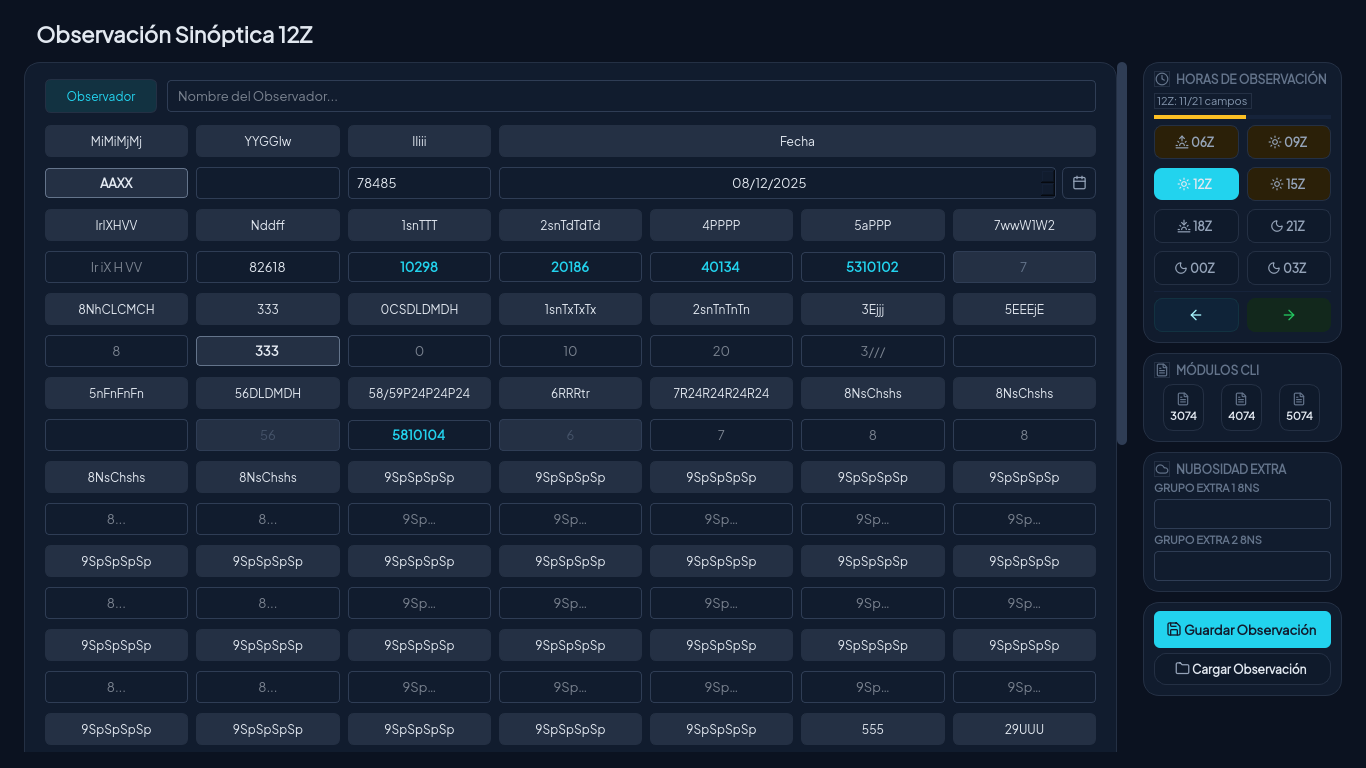
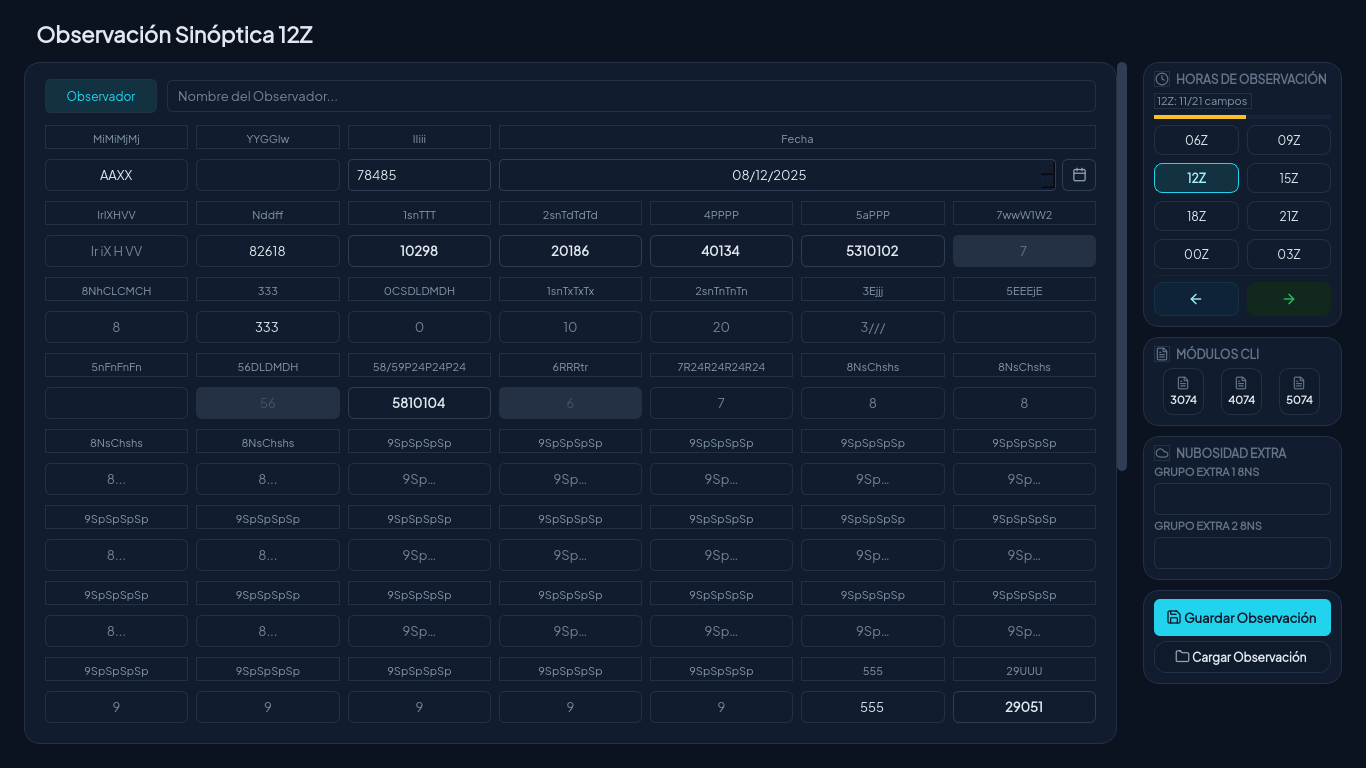
feat(synoptic): la grilla se ve como el mockup (forma, no sólo color)
El dueño revisó las imágenes y tenía razón: las nueve fases cambiaron el color
pero no la forma. En F4 interpreté «deja todo el Grid como está» como «no toques
el marcado de las celdas» y conservé las etiquetas de grupo como barras
rellenas, cuando el mockup las muestra como texto. Arreglado:

- **Etiquetas de grupo**: de barra rellena a texto gris (`$suave_alt`, 11 px).
  Eran 14 bandas oscuras; el orden de filas, grupos y tramos no se tocó.
- **Celdas constantes** (AAXX, 333, 555): de relleno gris con borde tenue a
  campo blanco con borde, como en el mockup.
- **Campos**: borde `$borde`, radio 6 y padding del mockup.
- **Campos de cálculo (RO)**: dejan el acento en negrita y van en tinta.
- **Botones de hora**: de chip con icono sol/luna y tinte por hora a tarjeta
  blanca; el activo con fondo `$acento_suave`, borde `$acento` y texto
  `$acento_texto`, igual al mockup. Los iconos salieron.

Verificado en captura clara y oscura. 849 passed, EXIT=0.

Queda de esta pantalla, para el corte siguiente: los valores calculados de la
primera fila siguen en azul negrita, las filas de relleno (8… / 9Sp…) conservan
un fondo gris, y el riel no muestra el contador «21/21» dentro de cada tarjeta
de hora.

diff --git a/oms_ui/pages/synoptic.py b/oms_ui/pages/synoptic.py
@@ -40,6 +40,7 @@ from typing import Any
 
 from PySide6.QtCore import QDate, QRegularExpression, QSize, Qt, QTimer
 from PySide6.QtGui import (
+    QIcon,
     QColor,
     QKeySequence,
     QPainter,
@@ -207,8 +208,8 @@ def _qss(plantilla: str) -> str:
 
 
 FIELD_QSS = (
-    "QLineEdit { background-color: $superficie; border: 1px solid $borde_input;"
-    "border-radius: 4px; padding: 5px 8px; color: $texto;"
+    "QLineEdit { background-color: $superficie; border: 1px solid $borde;"
+    "border-radius: 6px; padding: 6px 8px; color: $texto;"
     "selection-background-color: $acento; }"
     "QLineEdit:disabled { background-color: $borde; color: $tenue; }"
 )
@@ -218,12 +219,12 @@ FIELD_ERROR_QSS = (
 )
 RO_QSS = (
     "QLineEdit { background-color: $superficie; border: 1px solid $borde_input;"
-    "border-radius: 4px; padding: 5px 8px; color: $acento; font-weight: bold; }"
+    "border-radius: 6px; padding: 6px 8px; color: $texto; }"
     "QLineEdit:disabled { background-color: $borde; color: $tenue; }"
 )
 CONST_QSS = (
-    "QLineEdit { background-color: $borde; border: 1px solid $tenue;"
-    "border-radius: 4px; padding: 5px 8px; color: $texto; font-weight: bold; }"
+    "QLineEdit { background-color: $superficie; border: 1px solid $borde;"
+    "border-radius: 6px; padding: 6px 8px; color: $texto; font-weight: 600; }"
 )
 CARD_QSS = (
     "QFrame { background-color: $superficie; border: 1px solid $borde;"
@@ -302,8 +303,8 @@ HOUR_ICONS: dict[str, str] = {
 
 #: slate-600 header chips (oracle tableHeader slate bg; square corners).
 _HEADER_QSS = (
-    "background-color: $banda; color: $banda_texto; font-weight: 600;"
-    "font-size: 12px; padding: 7px 6px; border-radius: 6px;"
+    "background-color: transparent; color: $suave_alt; font-weight: 600;"
+    "font-size: 11px; padding: 6px 4px 2px 4px;"
 )
 
 
@@ -591,32 +592,29 @@ class SynopticPage(QWidget):
             self._status_timer.start()
 
     def _style_hour_button(self, hora: str) -> None:
-        """Botón de hora: el activo lleva el acento, el resto el tinte de avance.
+        """Botón de hora como el mockup: tarjeta blanca; el activo, en acento.
 
-        El icono (sol, amanecer, luna) dice la hora; el color no depende de ella.
+        El icono sol/luna salió: el mockup muestra la hora y su avance, sin
+        glifo, y el color ya no depende de la hora.
         """
-        paleta = theme_mod.palette_actual()
         button = self.hour_buttons[hora]
         active = hora == self.active_hour
         if active:
             button.setStyleSheet(_qss(
-                "QPushButton { background-color: $acento; color: $banda_texto;"
-                "border: none; border-radius: 8px; padding: 8px 6px;"
-                "font-weight: 700; font-size: 12px; }"
+                "QPushButton { background-color: $acento_suave;"
+                " border: 1px solid $acento; border-radius: 8px;"
+                " color: $acento_texto; font-weight: 700; font-size: 12px;"
+                " padding: 6px 8px; }"
             ))
         else:
-            fill = str(button.property("fill") or "empty")
-            tint = {"part": paleta["ambar_fondo"], "ok": paleta["ok_fondo"]}.get(
-                fill, paleta["panel_alt"]
-            )
-            button.setStyleSheet(_qss(_hour_button_qss(tint)))
-        icon_name = HOUR_ICONS[hora]
-        button.setIcon(lucide_icon(
-            icon_name,
-            paleta["banda_texto"] if active else paleta["suave"],
-            14,
-        ))
-        button.setIconSize(QSize(14, 14))
+            button.setStyleSheet(_qss(
+                "QPushButton { background-color: $superficie;"
+                " border: 1px solid $borde; border-radius: 8px;"
+                " color: $texto; font-weight: 600; font-size: 12px;"
+                " padding: 6px 8px; }"
+                "QPushButton:hover { border-color: $acento; }"
+            ))
+        button.setIcon(QIcon())
 
     def _apply_hour_theme(self) -> None:
         """Ink, chips y botón salen de la paleta; la hora sólo tiñe el selector.
